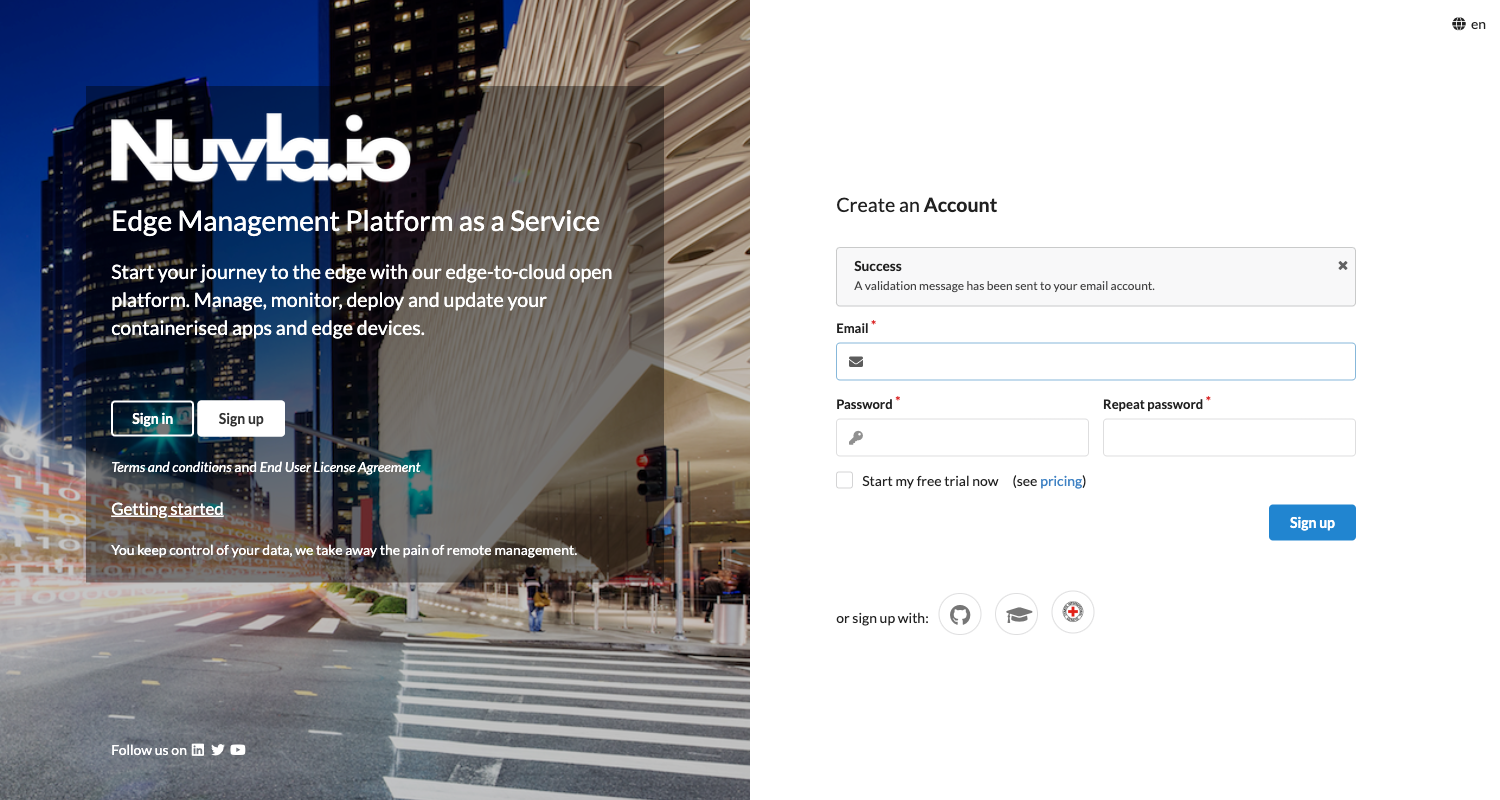
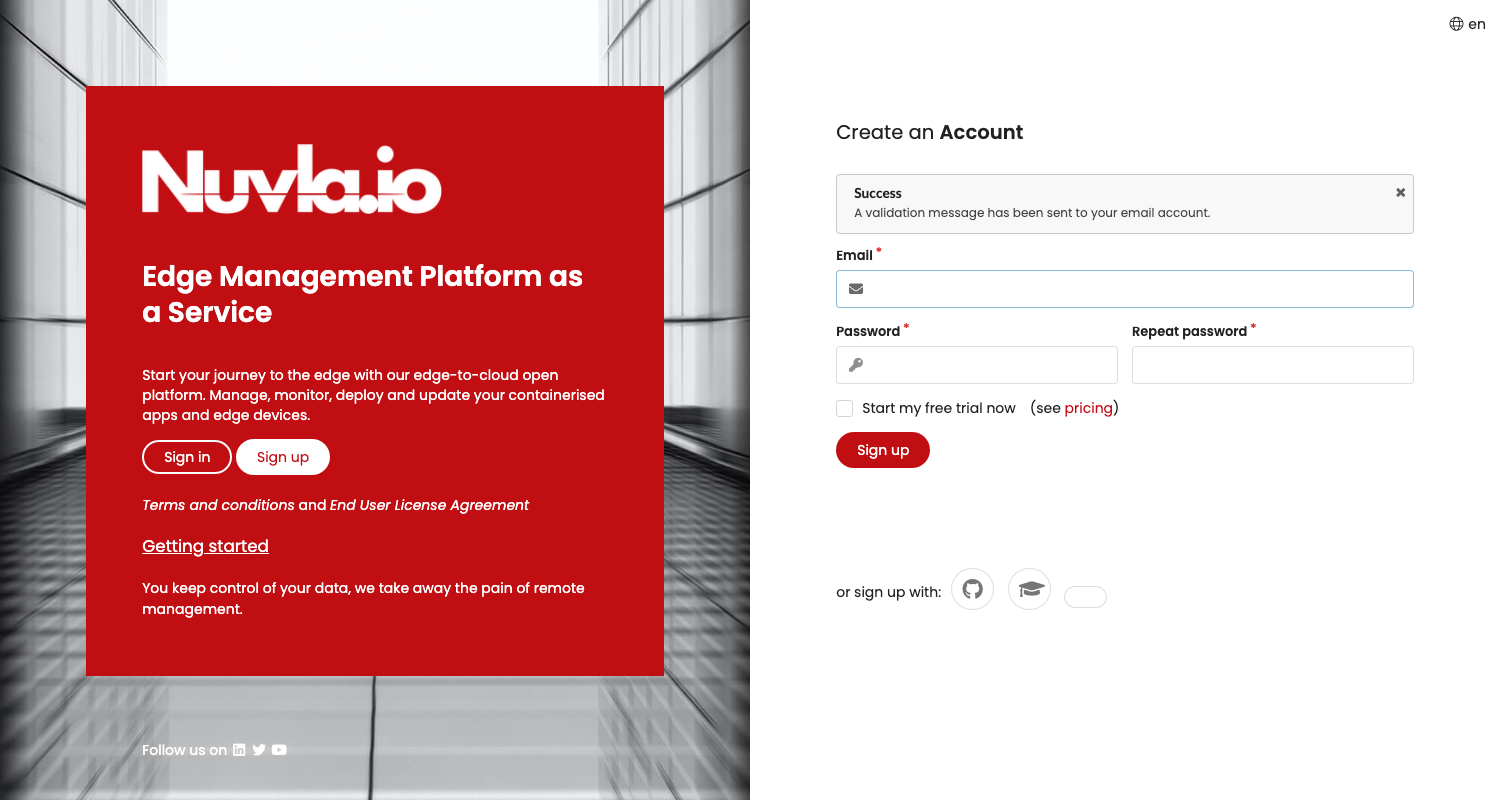
add screenshots for /nuvla/user-guide/sign-up-in/ (missing last one)

diff --git a/screenshotting/tests/auth_page.spec.ts b/screenshotting/tests/auth_page.spec.ts
@@ -29,18 +29,20 @@ test('test', async ({ page, browser }, { config }) => {
   // Start
   //*********
 
-  // Welcome
+  // Welcome (unauthenticated)
   await page.goto(baseURL);
-
-  // Do these at the end since we're logging out'
-  // Sign-in page
   const defaultViewport = page.viewportSize();
   page.setViewportSize({
     height: 800,
     width: 1500,
   });
+  await delay(1000);
+  await page.screenshot({ fullPage: true, path: '../docs/assets/img/home-unauthenticated.png', scale: 'css' });
+
+  // Sign-in page
   const signInUrl = baseURL + '/ui/sign-in';
   await page.goto(signInUrl);
+  await delay(1000);
   await page.waitForURL(signInUrl);
   await page.screenshot({ fullPage: true, path: '../docs/assets/img/sign-in.png', scale: 'css' });
 

diff --git a/screenshotting/tests/apps.spec.ts b/screenshotting/tests/apps.spec.ts
@@ -73,7 +73,8 @@ test('test', async ({}, { config }) => {
 
   // Welcome
   await page.goto(baseURL);
-  await expect(page).toHaveURL('https://nuvla.io/ui/welcome');
+  await expect(page).toHaveURL('https://nuvla.io/ui/');
+  await delay(3000);
   await page.screenshot({ fullPage: false, path: '../docs/assets/img/home.png', scale: 'css' });
 
   // // From this point, we have auto-generated code...

diff --git a/docs/nuvla/user-guide/sign-up-in.md b/docs/nuvla/user-guide/sign-up-in.md
@@ -15,9 +15,11 @@ First thing first, you need a Nuvla account.
 
 To create an account, visit the [home page](https://nuvla.io/) with your browser. Click the "sign up" button on the right of the page.
 
-![Sign Up Page](/assets/img/sign-up.png)
+![Sign Up Page](/assets/img/home-unauthenticated.png)
 
 You can either sign-up using username/password or use an external single sign-on service (e.g. GitHub).  You will be able to activate two-factor authentication once sign-in.
+
+![Sign Up Page](/assets/img/sign-up.png)
 
 You can start your free trial right away, or do it later once sign-in.
 
